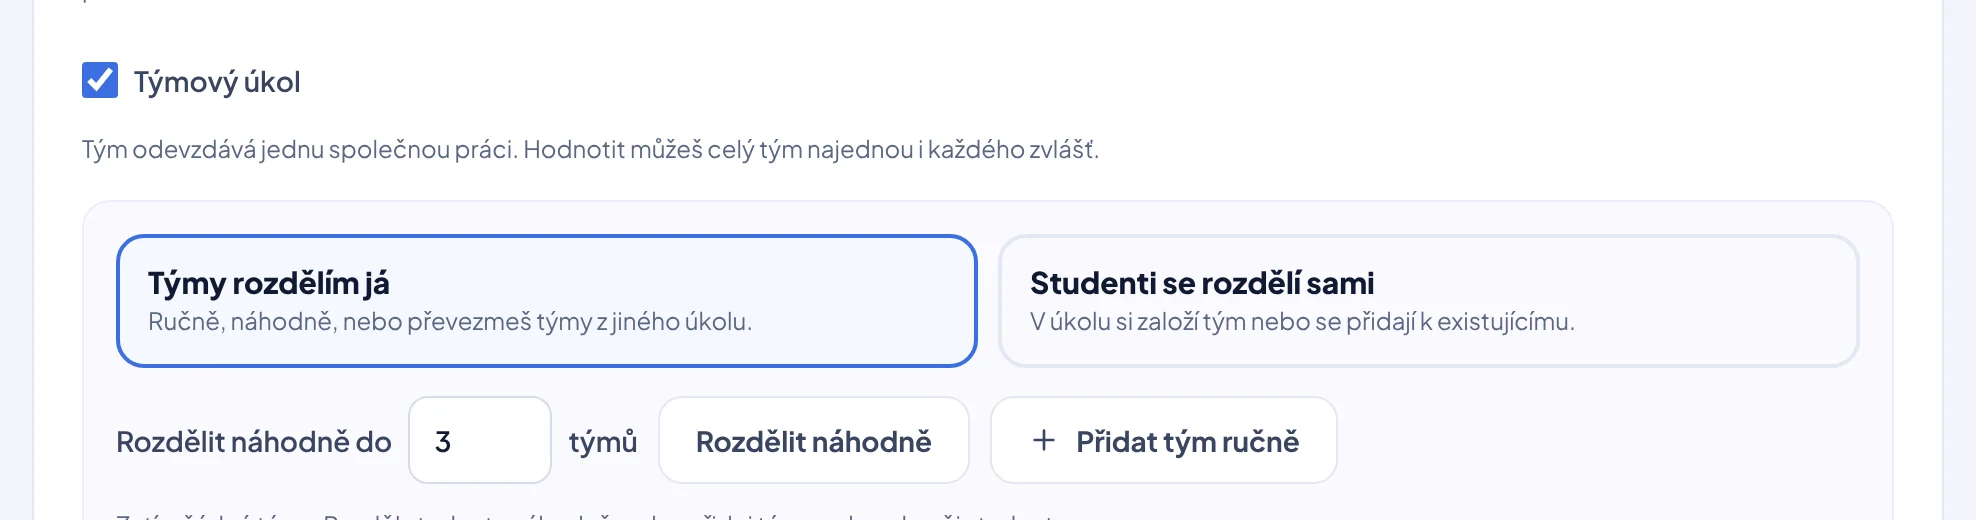
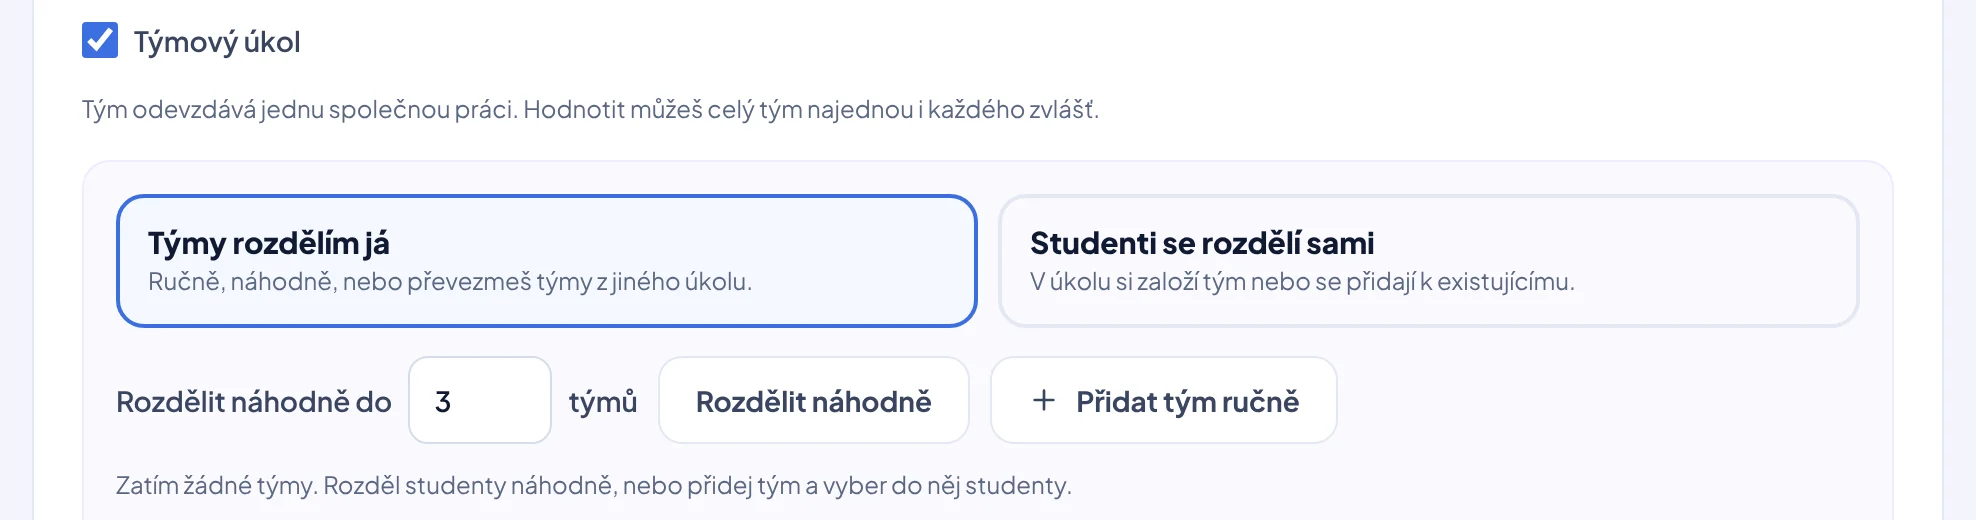
Nápověda: u skrytého přepínače míří kurzor a zvýraznění na celou kartičku
Claude-Session: https://claude.ai/code/session_01S4k3G4RvgMHKPCyowCDzNN

diff --git a/scripts/help-shots.ts b/scripts/help-shots.ts
@@ -129,11 +129,21 @@ async function shoot(page: Page, slug: string, index: number, shot: HelpShot): P
   else await area.scrollIntoViewIfNeeded();
   await page.waitForTimeout(200);
   let areaBox = (await area.boundingBox())!;
-  const tBox = target ? await target.boundingBox() : null;
+  // Skryté pole (sr-only radio/checkbox ve „kartičce“): kurzor i zvýraznění patří
+  // na viditelný štítek, ne na 1px bod v jeho rohu.
+  let mark = target;
+  if (target) {
+    const raw = await target.boundingBox();
+    if (raw && (raw.width < 4 || raw.height < 4)) {
+      const label = target.locator("xpath=ancestor::label[1]");
+      if (await label.count()) mark = label.first();
+    }
+  }
+  const tBox = mark ? await mark.boundingBox() : null;
   // Zaoblení prvku, ať zvýraznění sedí přesně na jeho okraji.
   // Prvek bez vlastního rámečku a pozadí (textový odkaz): místo rámečku zvýrazňovač pod textem.
-  const tStyle = target
-    ? await target.evaluate((el) => {
+  const tStyle = mark
+    ? await mark.evaluate((el) => {
         const cs = getComputedStyle(el);
         const plain = !(parseFloat(cs.borderTopWidth) > 0) && /rgba\(0, 0, 0, 0\)|transparent/.test(cs.backgroundColor);
         // Jen textový odkaz nebo tlačítko vzhledu odkazu (ne ikona, ne řádek seznamu, ne pole formuláře).
@@ -158,9 +168,9 @@ async function shoot(page: Page, slug: string, index: number, shot: HelpShot): P
     areaBox = union(areaBox, box);
   };
 
-  if (target && action === "click") {
+  if (target && mark && action === "click") {
     kind = "click";
-    await target.click();
+    await mark.click();
     if (shot.after) {
       await page.waitForTimeout(500);
       await grow();
